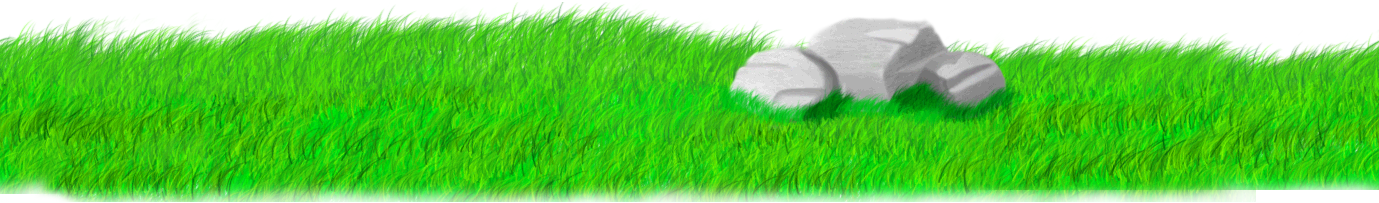
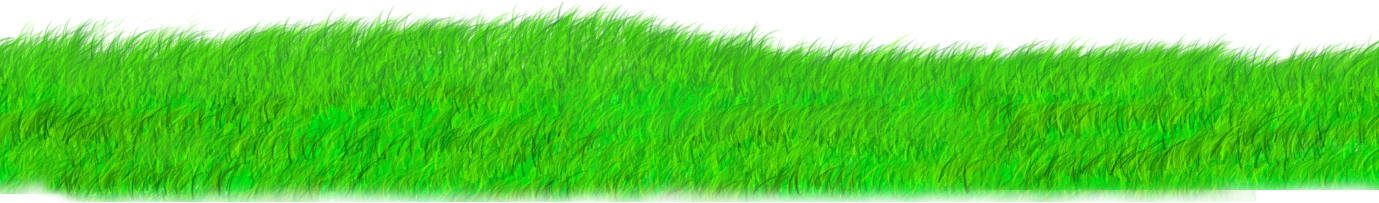
7/16/2013
Changed color of navibar
Fix the problem in Night mode
Changed background

Changed region(s): [[0.4989, 0.0887, 0.7484, 0.6207]]

diff --git a/style.css b/style.css
@@ -27,7 +27,6 @@ Author URI:
 	box-shadow:5px 5px 30px 3px #333;
 }
 
-
 h1.ContentTitle{
 	font-family:Microsoft JhengHei;
 	font-weight:600;
@@ -128,31 +127,50 @@ header{
 
 #header_BG{
 
-	background: #a1dbff;
-background: -moz-linear-gradient(top,  #a1dbff 0%, #cbebff 53%, #f0f9ff 100%);
-background: -webkit-gradient(linear, left top, left bottom, color-stop(0%,#a1dbff), color-stop(53%,#cbebff), color-stop(100%,#f0f9ff));
-background: -webkit-linear-gradient(top,  #a1dbff 0%,#cbebff 53%,#f0f9ff 100%);
-background: -o-linear-gradient(top,  #a1dbff 0%,#cbebff 53%,#f0f9ff 100%);
-background: -ms-linear-gradient(top,  #a1dbff 0%,#cbebff 53%,#f0f9ff 100%);
-background: linear-gradient(to bottom,  #a1dbff 0%,#cbebff 53%,#f0f9ff 100%);
-filter: progid:DXImageTransform.Microsoft.gradient( startColorstr='#a1dbff', endColorstr='#f0f9ff',GradientType=0 );
+background: #70caff;
+background: -moz-linear-gradient(top,  #70caff 0%, #cbebff 53%, #f0f9ff 100%);
+background: -webkit-gradient(linear, left top, left bottom, color-stop(0%,#70caff), color-stop(53%,#cbebff), color-stop(100%,#f0f9ff));
+background: -webkit-linear-gradient(top,  #70caff 0%,#cbebff 53%,#f0f9ff 100%);
+background: -o-linear-gradient(top,  #70caff 0%,#cbebff 53%,#f0f9ff 100%);
+background: -ms-linear-gradient(top,  #70caff 0%,#cbebff 53%,#f0f9ff 100%);
+background: linear-gradient(to bottom,  #70caff 0%,#cbebff 53%,#f0f9ff 100%);
+filter: progid:DXImageTransform.Microsoft.gradient( startColorstr='#70caff', endColorstr='#f0f9ff',GradientType=0 );
+
 
 	width:auto;
-	height:200px;
+	height:350px;
 }
 
 #Fground{
 	background:url(Image/Top_glass.png);
 	background-repeat:repeat-x;
 	position:absolute;
-	top:100px;
+	top:250px;
 	width:100%;
 	height:203px;	
 }
 
+#Bground{
+	background:url(Image/Mountain.png);
+	position:absolute;
+	top:125px;
+	left:45%;
+	width:1490px;
+	height:200px;	
+}
+
+#Rock{
+	background:url(Image/Stone.png);
+	position:absolute;
+	top:220px;
+	left:3%;
+	width:310px;
+	height:128px;	
+}	
+
 #Cloud_1{
 	background-image:url(Image/Cloud_1.png);
-	width:1573px;
+	width:1568px;
 	height:105px;
 	position:absolute;
 	left:-2000px;
@@ -175,6 +193,14 @@ filter: progid:DXImageTransform.Microsoft.gradient( startColorstr='#a1dbff', end
 }
 
 /*--- Navibar ---------------------------------------------------------------*/
+.NavitSetting{
+	margin-bottom:25px;
+	padding:15px;
+	background-image:url(Image/Trans/SkyBlue_80.png);
+	border-radius:25px;
+	box-shadow:-2px -2px 5px 2px #000 inset,5px 5px 30px 5px #333;
+}
+
 #SiteTitle{	
 	height:150px;
 	margin-top:-50px;
@@ -223,7 +249,7 @@ filter: progid:DXImageTransform.Microsoft.gradient( startColorstr='#a1dbff', end
 	font-weight:600;
 	width:150px;
 	height:45px;
-	padding-top:8px;
+	padding-top:5px;
 	border-right:1px dashed #666;
 	float:left;
 	font-size:24px;

diff --git a/DuskTime.css b/DuskTime.css
@@ -1,0 +1,18 @@
+@charset "utf-8";
+/* CSS Document */
+
+.NightMask{
+	background:url(Image/Trans/Orange_10.png);
+}
+
+#header_BG{
+background: #ffd07f;
+background: -moz-linear-gradient(top,  #ffd07f 0%, #9ef5ff 75%);
+background: -webkit-gradient(linear, left top, left bottom, color-stop(0%,#ffd07f), color-stop(75%,#9ef5ff));
+background: -webkit-linear-gradient(top,  #ffd07f 0%,#9ef5ff 75%);
+background: -o-linear-gradient(top,  #ffd07f 0%,#9ef5ff 75%);
+background: -ms-linear-gradient(top,  #ffd07f 0%,#9ef5ff 75%);
+background: linear-gradient(to bottom,  #ffd07f 0%,#9ef5ff 75%);
+filter: progid:DXImageTransform.Microsoft.gradient( startColorstr='#ffd07f', endColorstr='#9ef5ff',GradientType=0 );
+
+}

diff --git a/NightTime.css b/NightTime.css
@@ -4,3 +4,14 @@
 .NightMask{
 	background:url(Image/Trans/Blue_20.png);
 }
+
+#header_BG{
+background: #006f9b;
+background: -moz-linear-gradient(top,  #006f9b 0%, #0099ff 100%);
+background: -webkit-gradient(linear, left top, left bottom, color-stop(0%,#006f9b), color-stop(100%,#0099ff));
+background: -webkit-linear-gradient(top,  #006f9b 0%,#0099ff 100%);
+background: -o-linear-gradient(top,  #006f9b 0%,#0099ff 100%);
+background: -ms-linear-gradient(top,  #006f9b 0%,#0099ff 100%);
+background: linear-gradient(to bottom,  #006f9b 0%,#0099ff 100%);
+filter: progid:DXImageTransform.Microsoft.gradient( startColorstr='#006f9b', endColorstr='#0099ff',GradientType=0 );
+}

diff --git a/js/animation.js b/js/animation.js
@@ -1,17 +1,5 @@
 // JavaScript Document
 
-var Cloud_1x = 0;
-/*
-window.setInterval(Cloud_1,1);
-
-function Cloud_1()
-{
-	var Cloud_1xvar = Cloud_1x + "px";
-	
-	Cloud_1x+=5;
-}
-*/	
-
 $(document).ready(function(){
 	
 	function Cloub_1_anime()

diff --git a/header.php b/header.php
@@ -23,11 +23,15 @@
    	<script>
 	function getStylesheet() {
       var currentTime = new Date().getHours();
-      if (currentTime <=22 &&currentTime < 2) {
+      if (currentTime >=20 || currentTime < 6) {
        document.write("<link rel='stylesheet' href='<?php echo get_template_directory_uri(); ?>/NightTime.css' type='text/css'>");
       }
-	  else
-	  {alert (currentTime);}
+	  else if (currentTime >=17 || currentTime < 20) {
+       document.write("<link rel='stylesheet' href='<?php echo get_template_directory_uri(); ?>/DuskTime.css' type='text/css'>");
+      }
+	  else{
+		  alert(currentTime);
+	  }
 	}
 	
 	getStylesheet();
@@ -67,11 +71,12 @@
 <header>
 	
 	<div id="header_BG">
-
+    	<div id="Bground"></div>
+		<div id="Fground"></div>
+        <div id="Rock"></div>
     	<div id="Cloud_1"></div>
         <div id="Cloud_2"></div>
         <div id="Cloud_3"></div>
-        <div id="Fground"></div>
         <div class="NightMask"></div>
     </div>
     
@@ -80,7 +85,7 @@
         <p id="SiteDescription"><?php bloginfo('description');?></p>
     </div>
     
-	<nav id="Mainnav" class="ContentSetting">
+	<nav id="Mainnav" class="NavitSetting">
     	<ul>
             <li>
             	<ruby>
